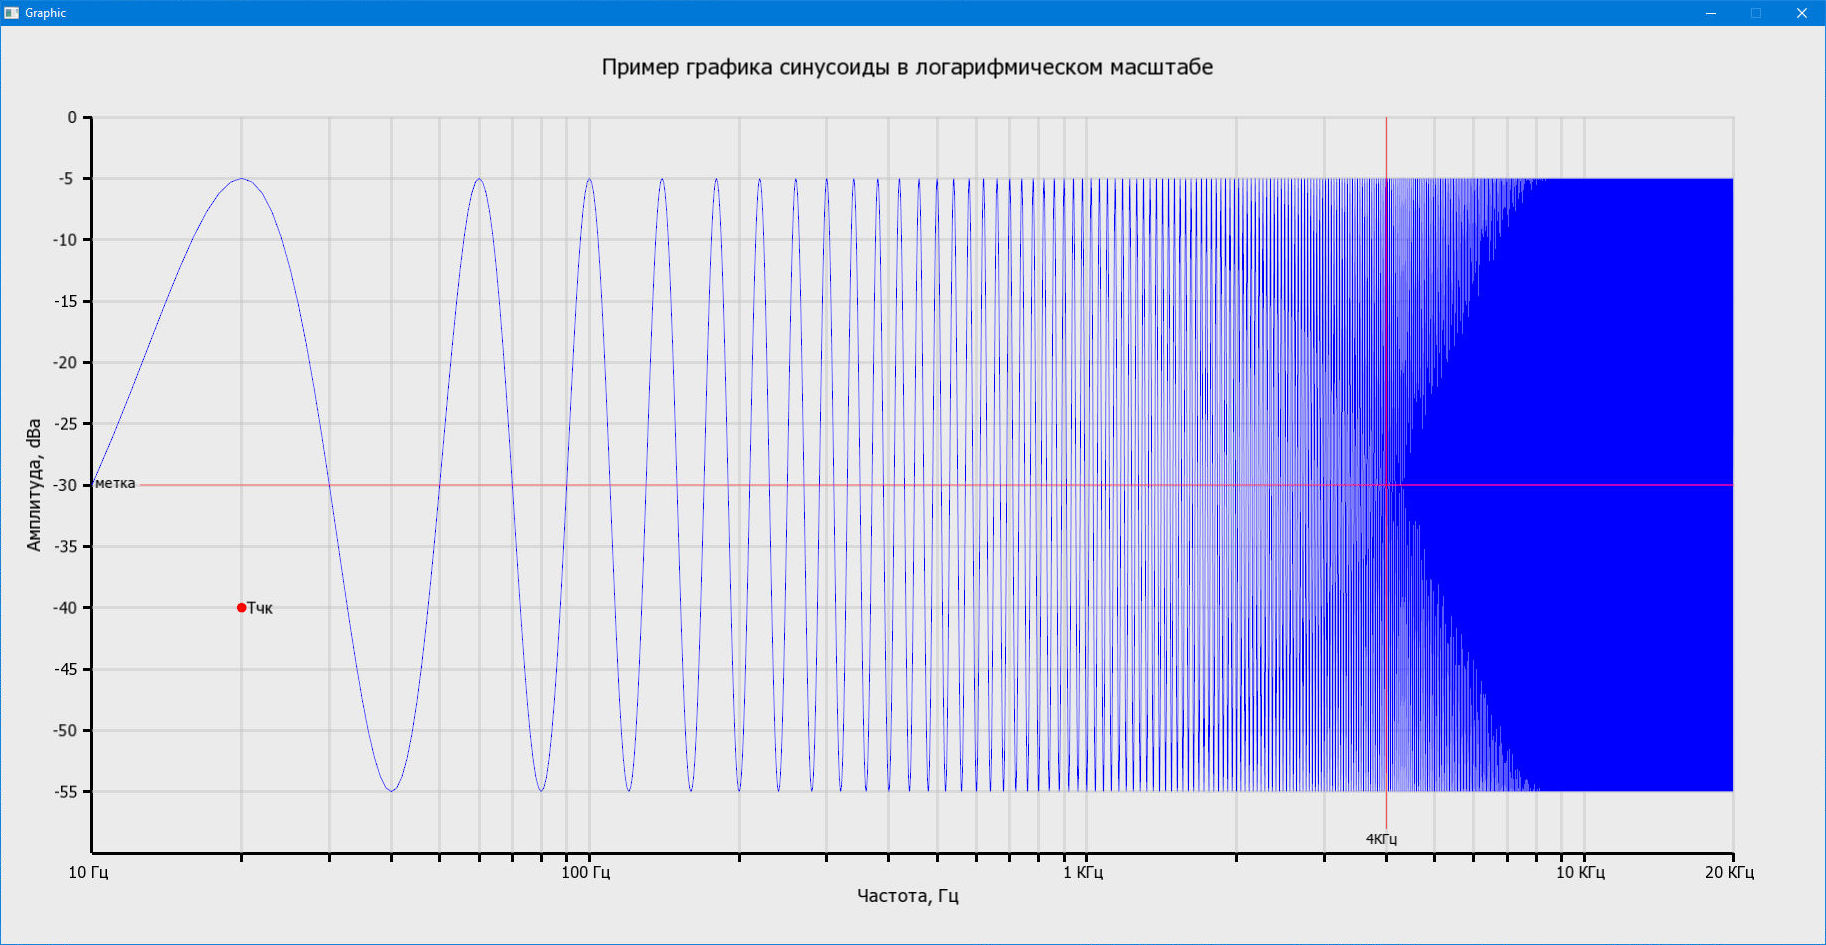
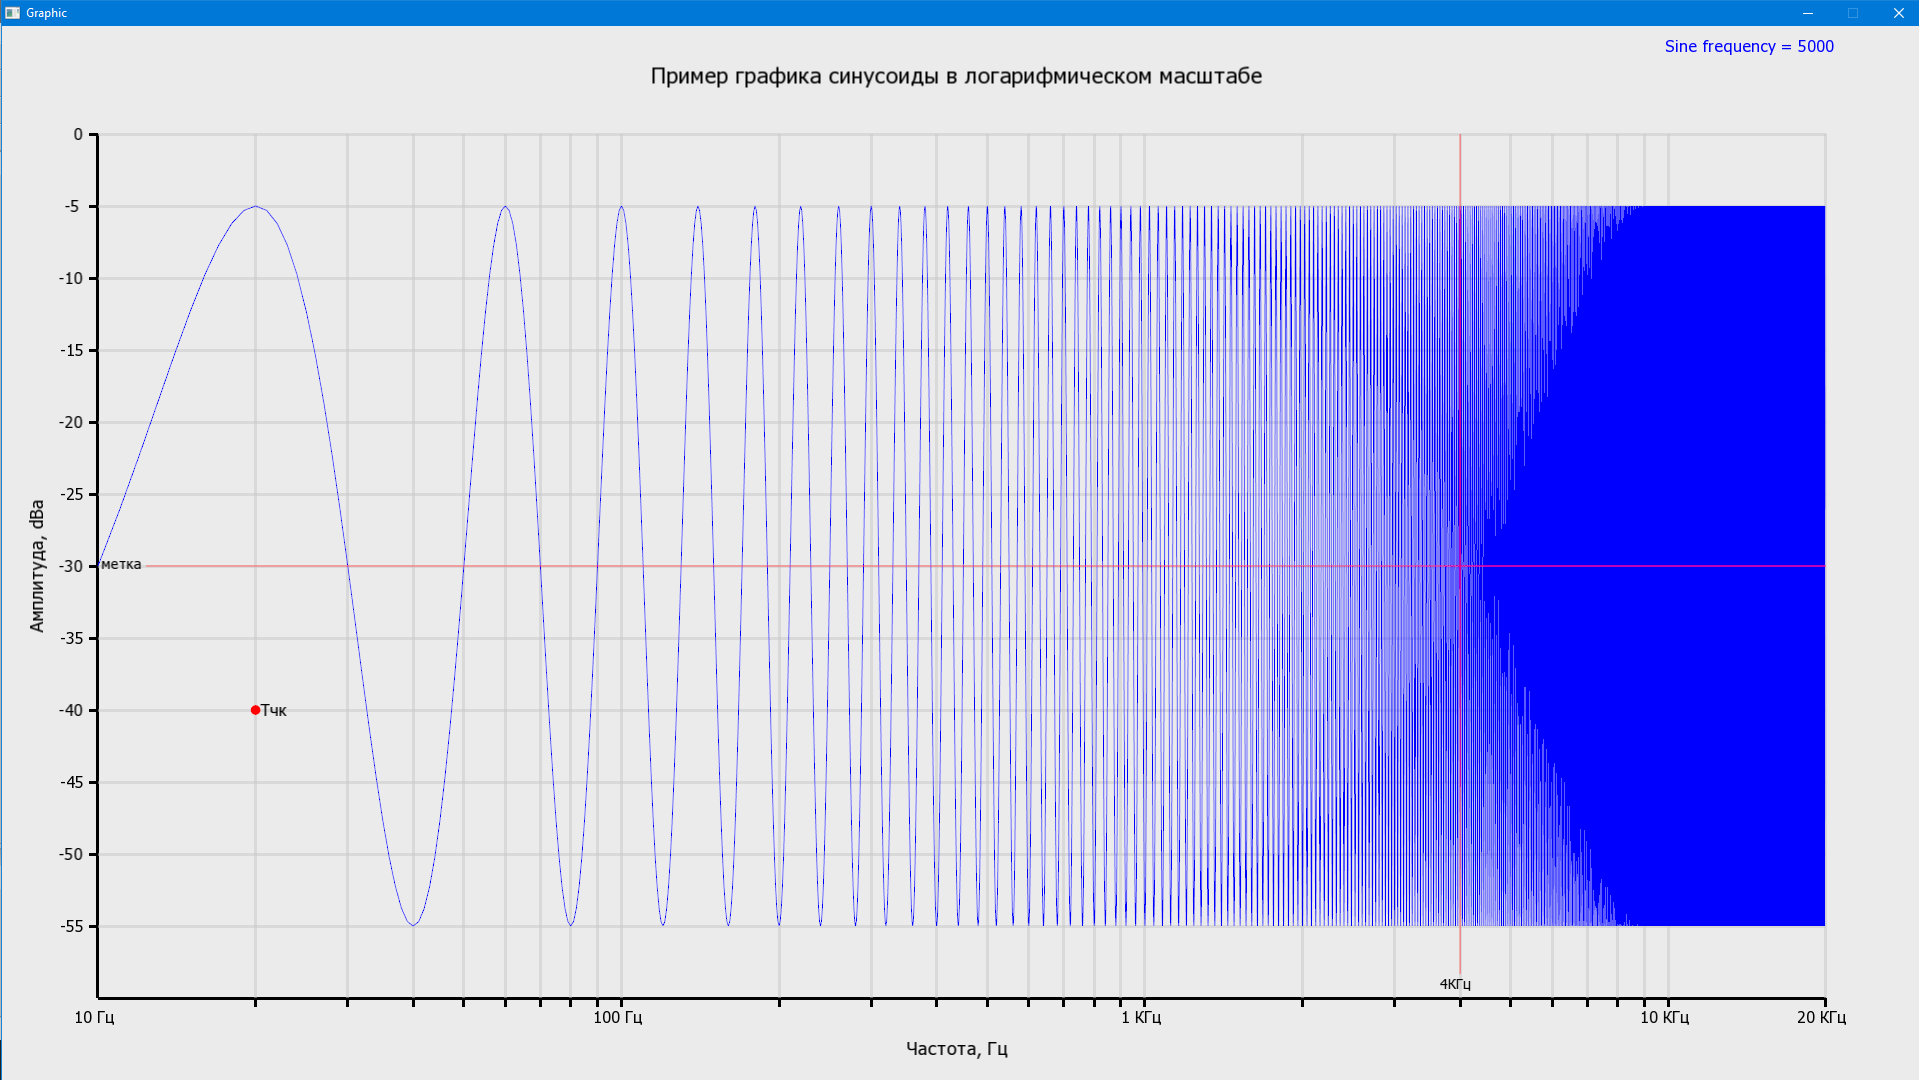
default fullscreen

diff --git a/sfgr.cpp b/sfgr.cpp
@@ -7,8 +7,8 @@ void            Sfgr_Configuration::Init(){
     YTitle = L"Амплитуда, dBa";
     Xtitle = L"Частота, Гц";
     Vidmode = sf::VideoMode::getDesktopMode();
-    Vidmode.width-=Vidmode.width*0.05;
-    Vidmode.height-=Vidmode.height*0.15;
+//    Vidmode.width-=Vidmode.width*0.05;
+//    Vidmode.height-=Vidmode.height*0.15;
     Font = getFontNamed("tahoma");
     ScrshotDir = "";
     if(Font.getInfo().family=="") cout << "SFGR: Font not loaded!" << endl;
@@ -265,6 +265,7 @@ void    Sfgr::winloop(){
     sf::Sprite msp;
     msp.setTexture(MTexture.getTexture());
     while(Window.isOpen()){
+        if(Layers.empty()) { Window.close(); return; }
         sf::Event event;
         while(Window.pollEvent(event)) {
             if(event.type == sf::Event::Closed) { Window.close(); return; }
@@ -313,6 +314,15 @@ void    Sfgr::Start(){
     }
     FinLayer(m);
     t = new std::thread([this]() {winloop();});
+}
+void    Sfgr::Stop(){
+    Layers_busy=true;
+    for(std::vector<Layer*>::iterator it = Layers.begin(); it != Layers.end(); it++){
+        Layer* f = *it;
+        f->ClearObjects();
+        delete f;
+    }
+    Layers.clear();
 }
 Layer*  Sfgr::NewLayer(){
     Layer* n = new Layer();

diff --git a/main.cpp b/main.cpp
@@ -28,9 +28,11 @@ int main()
     f->AddPoint(20, -40, 5, sf::Color::Red, L"Тчк", 16);
     f->AddVLine(4000, 1, sf::Color::Red, L"4КГц", 14);
     f->AddHLine(-30, 1, sf::Color::Red, L"метка", 14);
+    f->AddText(L"Sine frequency = 5000", 16, sf::Color::Blue, sf::Text::Regular, TextPos::LEFTER, g.cfg.Vidmode.width, 20);
     g.FinLayer(f);
     cin.ignore();
     g.DelLayer(n);
     cin.ignore();
+    g.Stop();
     return 0;
 }

diff --git a/sfgr.h b/sfgr.h
@@ -93,6 +93,7 @@ public:
     Layer*  NewLayer();
     void    FinLayer(Layer* LayerPtr);
     void    DelLayer(Layer* LayerPtr);
+    void    Stop();
     ~Sfgr();
 };
 #endif // SFGR_H
